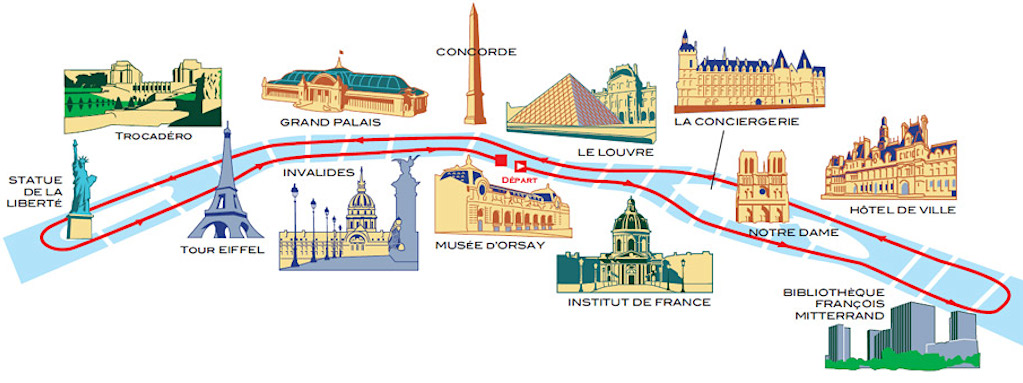
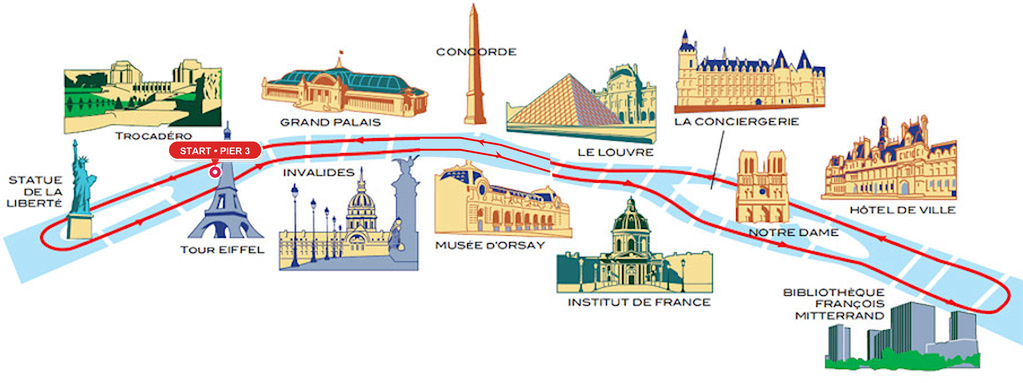
Replace SVG with cleaned 3D illustrated landmark route map anchored at Eiffel Tower Pier 3

Changed region(s): [[0.3939, 0.3446, 0.5455, 0.4883], [0.1515, 0.3446, 0.2727, 0.4595]]

diff --git a/paris-family-cruise/bundled.html b/paris-family-cruise/bundled.html
@@ -1049,6 +1049,14 @@ body {
     -webkit-overflow-scrolling: touch;
 }
 
+.itinerary-illustrated-map {
+    width: 100%;
+    min-width: 540px;
+    height: auto;
+    display: block;
+    border-radius: 6px;
+}
+
 .seine-route-svg {
     width: 100%;
     min-width: 520px;
@@ -1057,6 +1065,7 @@ body {
 }
 
 @media (min-width: 600px) {
+    .itinerary-illustrated-map,
     .seine-route-svg {
         min-width: 100%;
     }
@@ -2278,96 +2287,9 @@ body {
                             <p class="itinerary-caption">The entire historical center of Paris from the water with zero walking fatigue:</p>
                         </div>
 
-                        <!-- Illustrated Seine River Route Vector Map -->
+                        <!-- Illustrated 3D Landmark Seine River Route Map -->
                         <div class="itinerary-map-graphic">
-                            <svg viewBox="0 0 860 260" class="seine-route-svg" xmlns="http://www.w3.org/2000/svg" aria-label="Visual map of Bateaux Parisiens 70-minute Seine River cruise itinerary">
-                                <!-- Background land -->
-                                <rect width="860" height="260" fill="#f8fafc" rx="10"/>
-                                <rect x="1" y="1" width="858" height="258" fill="none" stroke="#e2e8f0" stroke-width="1.5" rx="10"/>
-                                
-                                <!-- Paris Bank labels -->
-                                <text x="28" y="24" fill="#64748b" font-size="9" font-weight="800" letter-spacing="1">NORTH • RIGHT BANK (RIVE DROITE)</text>
-                                <text x="28" y="246" fill="#64748b" font-size="9" font-weight="800" letter-spacing="1">SOUTH • LEFT BANK (RIVE GAUCHE)</text>
-
-                                <!-- Seine River Water Bed -->
-                                <rect x="0" y="68" width="860" height="124" fill="#e0f2fe"/>
-                                <line x1="0" y1="68" x2="860" y2="68" stroke="#bae6fd" stroke-width="2"/>
-                                <line x1="0" y1="192" x2="860" y2="192" stroke="#bae6fd" stroke-width="2"/>
-
-                                <!-- Bridges across Seine -->
-                                <line x1="145" y1="68" x2="145" y2="192" stroke="#cbd5e1" stroke-width="3" stroke-dasharray="4,3"/>
-                                <text x="145" y="62" fill="#94a3b8" font-size="8" font-weight="700" text-anchor="middle">Pont d'Iéna</text>
-
-                                <line x1="285" y1="68" x2="285" y2="192" stroke="#94a3b8" stroke-width="4"/>
-                                <text x="285" y="62" fill="#64748b" font-size="8" font-weight="700" text-anchor="middle">Pont Alexandre III</text>
-
-                                <line x1="620" y1="68" x2="620" y2="192" stroke="#cbd5e1" stroke-width="3" stroke-dasharray="4,3"/>
-                                <text x="620" y="62" fill="#94a3b8" font-size="8" font-weight="700" text-anchor="middle">Pont Neuf</text>
-
-                                <!-- Île de la Cité Island in River -->
-                                <polygon points="645,130 670,112 745,112 760,130 745,148 670,148" fill="#ffffff" stroke="#94a3b8" stroke-width="1.5"/>
-                                <text x="705" y="126" fill="#0f172a" font-size="9.5" font-weight="800" text-anchor="middle">Île de la Cité</text>
-                                <text x="705" y="140" fill="#0284c7" font-size="8.5" font-weight="700" text-anchor="middle">⛪ Notre-Dame</text>
-
-                                <!-- Outbound Cruise Path (Eastbound / Upstream) -->
-                                <path d="M 95,168 L 635,168 C 660,168 700,165 740,165 C 775,165 795,150 795,130" fill="none" stroke="#0284c7" stroke-width="3.5" stroke-linecap="round"/>
-                                <polygon points="210,164 218,168 210,172" fill="#0284c7"/>
-                                <polygon points="360,164 368,168 360,172" fill="#0284c7"/>
-                                <polygon points="550,164 558,168 550,172" fill="#0284c7"/>
-                                <text x="320" y="182" fill="#0284c7" font-size="8.5" font-weight="800" letter-spacing="0.5">OUTBOUND ➔ (EAST / UPSTREAM)</text>
-
-                                <!-- Turnaround U-Turn at Notre Dame & Île Saint-Louis -->
-                                <path d="M 795,130 C 795,110 775,92 740,92" fill="none" stroke="#0369a1" stroke-width="3" stroke-linecap="round"/>
-                                <g transform="translate(800, 130)">
-                                    <rect x="-46" y="-11" width="92" height="22" rx="5" fill="#0f172a"/>
-                                    <text x="0" y="4" fill="#38bdf8" font-size="8" font-weight="800" text-anchor="middle">🔄 U-TURN (45m)</text>
-                                </g>
-
-                                <!-- Inbound Cruise Path (Westbound / Downstream) -->
-                                <path d="M 740,92 L 230,92 C 160,92 115,115 95,168" fill="none" stroke="#0369a1" stroke-width="3" stroke-dasharray="6,4" stroke-linecap="round"/>
-                                <polygon points="560,96 552,92 560,88" fill="#0369a1"/>
-                                <polygon points="370,96 362,92 370,88" fill="#0369a1"/>
-                                <text x="460" y="83" fill="#0369a1" font-size="8.5" font-weight="800" letter-spacing="0.5">⬅ RETURN (WEST / DOWNSTREAM)</text>
-
-                                <!-- Start & Finish Pier 3 Dock Marker -->
-                                <circle cx="95" cy="168" r="10" fill="#0369a1"/>
-                                <circle cx="95" cy="168" r="16" fill="#0369a1" opacity="0.25"/>
-                                <text x="95" y="172" fill="#ffffff" font-size="10" text-anchor="middle">⚓</text>
-
-                                <!-- Active Boat Icon -->
-                                <circle cx="214" cy="168" r="11" fill="#0284c7"/>
-                                <text x="214" y="172" fill="#ffffff" font-size="10" text-anchor="middle">🚢</text>
-
-                                <!-- Right Bank Landmarks (Top) -->
-                                <g transform="translate(285, 12)">
-                                    <line x1="0" y1="26" x2="0" y2="56" stroke="#cbd5e1" stroke-width="1.2"/>
-                                    <rect x="-65" y="0" width="130" height="26" rx="5" fill="#ffffff" stroke="#cbd5e1" stroke-width="1.2"/>
-                                    <text x="0" y="17" fill="#0f172a" font-size="10" font-weight="700" text-anchor="middle">🏛 Grand Palais</text>
-                                </g>
-                                <g transform="translate(495, 12)">
-                                    <line x1="0" y1="26" x2="0" y2="56" stroke="#0284c7" stroke-width="1.2"/>
-                                    <rect x="-65" y="0" width="130" height="26" rx="5" fill="#ffffff" stroke="#0284c7" stroke-width="1.2"/>
-                                    <text x="0" y="17" fill="#0f172a" font-size="10" font-weight="800" text-anchor="middle">🏛 Louvre Palace</text>
-                                </g>
-                                <g transform="translate(700, 12)">
-                                    <line x1="0" y1="26" x2="0" y2="56" stroke="#cbd5e1" stroke-width="1.2"/>
-                                    <rect x="-60" y="0" width="120" height="26" rx="5" fill="#ffffff" stroke="#cbd5e1" stroke-width="1.2"/>
-                                    <text x="0" y="17" fill="#0f172a" font-size="10" font-weight="700" text-anchor="middle">🏰 Hôtel de Ville</text>
-                                </g>
-
-                                <!-- Left Bank Landmarks (Bottom) -->
-                                <g transform="translate(95, 206)">
-                                    <line x1="0" y1="-12" x2="0" y2="0" stroke="#0369a1" stroke-width="1.5"/>
-                                    <rect x="-85" y="0" width="170" height="38" rx="6" fill="#0369a1"/>
-                                    <text x="0" y="16" fill="#ffffff" font-size="10.5" font-weight="800" text-anchor="middle">🗼 EIFFEL TOWER (PIER 3)</text>
-                                    <text x="0" y="30" fill="#bae6fd" font-size="8.5" font-weight="700" text-anchor="middle">START &amp; RETURN DOCK (0m / 70m)</text>
-                                </g>
-                                <g transform="translate(420, 206)">
-                                    <line x1="0" y1="-14" x2="0" y2="0" stroke="#0284c7" stroke-width="1.2"/>
-                                    <rect x="-65" y="0" width="130" height="28" rx="5" fill="#ffffff" stroke="#0284c7" stroke-width="1.2"/>
-                                    <text x="0" y="18" fill="#0f172a" font-size="10" font-weight="800" text-anchor="middle">🖼 Musée d'Orsay</text>
-                                </g>
-                            </svg>
+                            <img src="/itinerary-route-map.png" alt="Official Illustrated 70-Minute Bateaux Parisiens Seine River Cruise Itinerary starting from Eiffel Tower Pier 3" class="itinerary-illustrated-map" width="1023" height="383" loading="lazy">
                         </div>
 
                         <!-- 6-Milestone Progression Bar -->

diff --git a/paris-family-cruise/index.html b/paris-family-cruise/index.html
@@ -511,96 +511,9 @@
                             <p class="itinerary-caption">The entire historical center of Paris from the water with zero walking fatigue:</p>
                         </div>
 
-                        <!-- Illustrated Seine River Route Vector Map -->
+                        <!-- Illustrated 3D Landmark Seine River Route Map -->
                         <div class="itinerary-map-graphic">
-                            <svg viewBox="0 0 860 260" class="seine-route-svg" xmlns="http://www.w3.org/2000/svg" aria-label="Visual map of Bateaux Parisiens 70-minute Seine River cruise itinerary">
-                                <!-- Background land -->
-                                <rect width="860" height="260" fill="#f8fafc" rx="10"/>
-                                <rect x="1" y="1" width="858" height="258" fill="none" stroke="#e2e8f0" stroke-width="1.5" rx="10"/>
-                                
-                                <!-- Paris Bank labels -->
-                                <text x="28" y="24" fill="#64748b" font-size="9" font-weight="800" letter-spacing="1">NORTH • RIGHT BANK (RIVE DROITE)</text>
-                                <text x="28" y="246" fill="#64748b" font-size="9" font-weight="800" letter-spacing="1">SOUTH • LEFT BANK (RIVE GAUCHE)</text>
-
-                                <!-- Seine River Water Bed -->
-                                <rect x="0" y="68" width="860" height="124" fill="#e0f2fe"/>
-                                <line x1="0" y1="68" x2="860" y2="68" stroke="#bae6fd" stroke-width="2"/>
-                                <line x1="0" y1="192" x2="860" y2="192" stroke="#bae6fd" stroke-width="2"/>
-
-                                <!-- Bridges across Seine -->
-                                <line x1="145" y1="68" x2="145" y2="192" stroke="#cbd5e1" stroke-width="3" stroke-dasharray="4,3"/>
-                                <text x="145" y="62" fill="#94a3b8" font-size="8" font-weight="700" text-anchor="middle">Pont d'Iéna</text>
-
-                                <line x1="285" y1="68" x2="285" y2="192" stroke="#94a3b8" stroke-width="4"/>
-                                <text x="285" y="62" fill="#64748b" font-size="8" font-weight="700" text-anchor="middle">Pont Alexandre III</text>
-
-                                <line x1="620" y1="68" x2="620" y2="192" stroke="#cbd5e1" stroke-width="3" stroke-dasharray="4,3"/>
-                                <text x="620" y="62" fill="#94a3b8" font-size="8" font-weight="700" text-anchor="middle">Pont Neuf</text>
-
-                                <!-- Île de la Cité Island in River -->
-                                <polygon points="645,130 670,112 745,112 760,130 745,148 670,148" fill="#ffffff" stroke="#94a3b8" stroke-width="1.5"/>
-                                <text x="705" y="126" fill="#0f172a" font-size="9.5" font-weight="800" text-anchor="middle">Île de la Cité</text>
-                                <text x="705" y="140" fill="#0284c7" font-size="8.5" font-weight="700" text-anchor="middle">⛪ Notre-Dame</text>
-
-                                <!-- Outbound Cruise Path (Eastbound / Upstream) -->
-                                <path d="M 95,168 L 635,168 C 660,168 700,165 740,165 C 775,165 795,150 795,130" fill="none" stroke="#0284c7" stroke-width="3.5" stroke-linecap="round"/>
-                                <polygon points="210,164 218,168 210,172" fill="#0284c7"/>
-                                <polygon points="360,164 368,168 360,172" fill="#0284c7"/>
-                                <polygon points="550,164 558,168 550,172" fill="#0284c7"/>
-                                <text x="320" y="182" fill="#0284c7" font-size="8.5" font-weight="800" letter-spacing="0.5">OUTBOUND ➔ (EAST / UPSTREAM)</text>
-
-                                <!-- Turnaround U-Turn at Notre Dame & Île Saint-Louis -->
-                                <path d="M 795,130 C 795,110 775,92 740,92" fill="none" stroke="#0369a1" stroke-width="3" stroke-linecap="round"/>
-                                <g transform="translate(800, 130)">
-                                    <rect x="-46" y="-11" width="92" height="22" rx="5" fill="#0f172a"/>
-                                    <text x="0" y="4" fill="#38bdf8" font-size="8" font-weight="800" text-anchor="middle">🔄 U-TURN (45m)</text>
-                                </g>
-
-                                <!-- Inbound Cruise Path (Westbound / Downstream) -->
-                                <path d="M 740,92 L 230,92 C 160,92 115,115 95,168" fill="none" stroke="#0369a1" stroke-width="3" stroke-dasharray="6,4" stroke-linecap="round"/>
-                                <polygon points="560,96 552,92 560,88" fill="#0369a1"/>
-                                <polygon points="370,96 362,92 370,88" fill="#0369a1"/>
-                                <text x="460" y="83" fill="#0369a1" font-size="8.5" font-weight="800" letter-spacing="0.5">⬅ RETURN (WEST / DOWNSTREAM)</text>
-
-                                <!-- Start & Finish Pier 3 Dock Marker -->
-                                <circle cx="95" cy="168" r="10" fill="#0369a1"/>
-                                <circle cx="95" cy="168" r="16" fill="#0369a1" opacity="0.25"/>
-                                <text x="95" y="172" fill="#ffffff" font-size="10" text-anchor="middle">⚓</text>
-
-                                <!-- Active Boat Icon -->
-                                <circle cx="214" cy="168" r="11" fill="#0284c7"/>
-                                <text x="214" y="172" fill="#ffffff" font-size="10" text-anchor="middle">🚢</text>
-
-                                <!-- Right Bank Landmarks (Top) -->
-                                <g transform="translate(285, 12)">
-                                    <line x1="0" y1="26" x2="0" y2="56" stroke="#cbd5e1" stroke-width="1.2"/>
-                                    <rect x="-65" y="0" width="130" height="26" rx="5" fill="#ffffff" stroke="#cbd5e1" stroke-width="1.2"/>
-                                    <text x="0" y="17" fill="#0f172a" font-size="10" font-weight="700" text-anchor="middle">🏛 Grand Palais</text>
-                                </g>
-                                <g transform="translate(495, 12)">
-                                    <line x1="0" y1="26" x2="0" y2="56" stroke="#0284c7" stroke-width="1.2"/>
-                                    <rect x="-65" y="0" width="130" height="26" rx="5" fill="#ffffff" stroke="#0284c7" stroke-width="1.2"/>
-                                    <text x="0" y="17" fill="#0f172a" font-size="10" font-weight="800" text-anchor="middle">🏛 Louvre Palace</text>
-                                </g>
-                                <g transform="translate(700, 12)">
-                                    <line x1="0" y1="26" x2="0" y2="56" stroke="#cbd5e1" stroke-width="1.2"/>
-                                    <rect x="-60" y="0" width="120" height="26" rx="5" fill="#ffffff" stroke="#cbd5e1" stroke-width="1.2"/>
-                                    <text x="0" y="17" fill="#0f172a" font-size="10" font-weight="700" text-anchor="middle">🏰 Hôtel de Ville</text>
-                                </g>
-
-                                <!-- Left Bank Landmarks (Bottom) -->
-                                <g transform="translate(95, 206)">
-                                    <line x1="0" y1="-12" x2="0" y2="0" stroke="#0369a1" stroke-width="1.5"/>
-                                    <rect x="-85" y="0" width="170" height="38" rx="6" fill="#0369a1"/>
-                                    <text x="0" y="16" fill="#ffffff" font-size="10.5" font-weight="800" text-anchor="middle">🗼 EIFFEL TOWER (PIER 3)</text>
-                                    <text x="0" y="30" fill="#bae6fd" font-size="8.5" font-weight="700" text-anchor="middle">START &amp; RETURN DOCK (0m / 70m)</text>
-                                </g>
-                                <g transform="translate(420, 206)">
-                                    <line x1="0" y1="-14" x2="0" y2="0" stroke="#0284c7" stroke-width="1.2"/>
-                                    <rect x="-65" y="0" width="130" height="28" rx="5" fill="#ffffff" stroke="#0284c7" stroke-width="1.2"/>
-                                    <text x="0" y="18" fill="#0f172a" font-size="10" font-weight="800" text-anchor="middle">🖼 Musée d'Orsay</text>
-                                </g>
-                            </svg>
+                            <img src="/itinerary-route-map.png" alt="Official Illustrated 70-Minute Bateaux Parisiens Seine River Cruise Itinerary starting from Eiffel Tower Pier 3" class="itinerary-illustrated-map" width="1023" height="383" loading="lazy">
                         </div>
 
                         <!-- 6-Milestone Progression Bar -->

diff --git a/paris-family-cruise/styles.css b/paris-family-cruise/styles.css
@@ -1047,6 +1047,14 @@ body {
     -webkit-overflow-scrolling: touch;
 }
 
+.itinerary-illustrated-map {
+    width: 100%;
+    min-width: 540px;
+    height: auto;
+    display: block;
+    border-radius: 6px;
+}
+
 .seine-route-svg {
     width: 100%;
     min-width: 520px;
@@ -1055,6 +1063,7 @@ body {
 }
 
 @media (min-width: 600px) {
+    .itinerary-illustrated-map,
     .seine-route-svg {
         min-width: 100%;
     }
